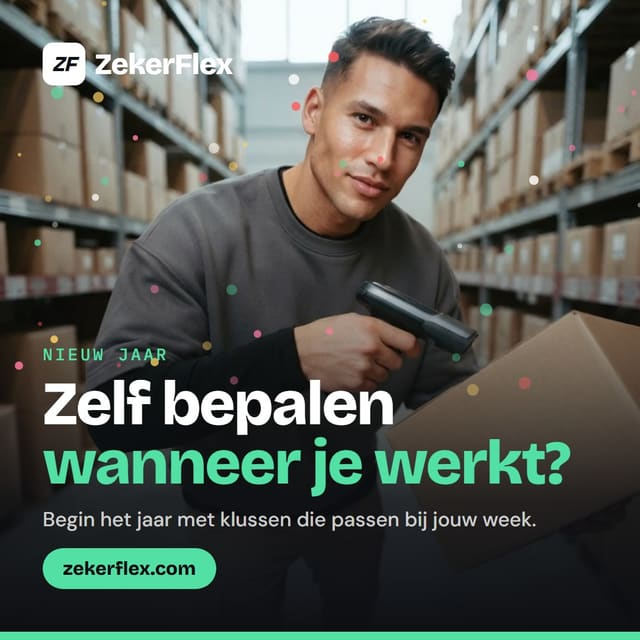
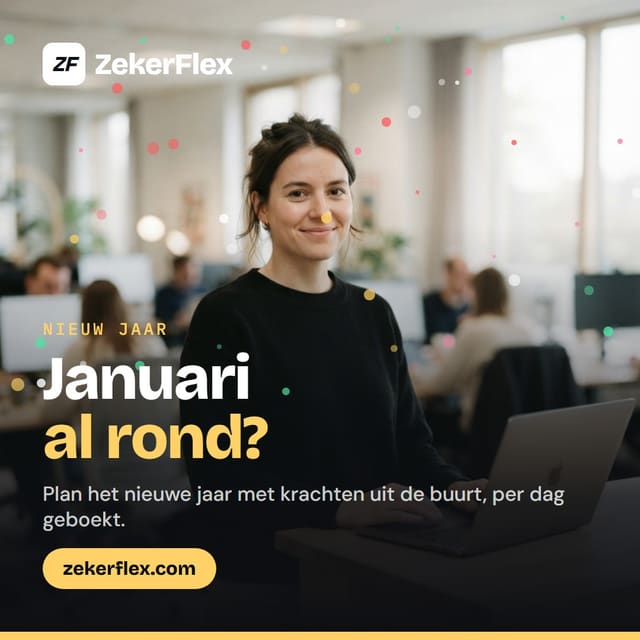
fix(seizoen): werker-app alleen een werkersbeeld, nieuwjaar apart voor bedrijf en werker
In de werker-app (/dashboard) geen bedrijvenpost: zonder werkersversie geen
kaart. Nieuwjaar heeft nu een bedrijvenbeeld (januari al rond?) en een
werkersbeeld (zelf bepalen wanneer je werkt?).

diff --git a/lib/seasons/foto.ts b/lib/seasons/foto.ts
@@ -6,6 +6,8 @@ import type { SeasonId, ThemeId } from "./calendar";
 // eigen foto's (dezelfde beelden als de social-mediaset van 17 nov 2026). De bestanden staan in
 // public/seizoen (640x640, licht), herkomst in public/seizoen/CREDITS.md. Puur: geen Date, geen
 // browser, zodat de test en de server hetzelfde zeggen.
+// Werker en bedrijf apart: de werker-app (/dashboard) toont alleen een werkersbeeld; is dat er niet,
+// dan geen kaart. Anders staat er reclame voor bedrijven in de app van de werker.
 // ---------------------------------------------------------------------------
 
 export interface SeizoenFoto {
@@ -16,12 +18,12 @@ export interface SeizoenFoto {
 
 interface Regel {
   alt: string;
-  /** eigen beeld voor de werker-app (/dashboard), als dat er is; anders hetzelfde beeld voor iedereen */
+  /** eigen beeld voor de werker-app (/dashboard); zonder dit beeld krijgt de werker-app geen kaart */
   werker?: { bestand: string; alt: string };
 }
 
 export const SEIZOEN_FOTOS: Readonly<Record<SeasonId, Regel>> = {
-  nieuwjaar: { alt: "Nieuw jaar: zelf bepalen wanneer je werkt?" },
+  nieuwjaar: { alt: "Nieuw jaar: januari al rond?", werker: { bestand: "nieuwjaar-werker", alt: "Nieuw jaar: zelf bepalen wanneer je werkt?" } },
   valentijn: { alt: "Valentijnsdag: restaurant vol geboekt?" },
   carnaval: { alt: "Carnaval: kroeg vol?" },
   pasen: { alt: "Pasen: paasbrunch vol geboekt?" },
@@ -34,10 +36,10 @@ export const SEIZOEN_FOTOS: Readonly<Record<SeasonId, Regel>> = {
 
 const isWerkerApp = (pathname: string) => pathname === "/dashboard" || pathname.startsWith("/dashboard/");
 
-/** Het beeld bij een feest, of null (een verjaardag heeft geen beeld). */
+/** Het beeld bij een feest, of null (een verjaardag heeft geen beeld; de werker-app zonder werkersbeeld ook niet). */
 export function seizoenFoto(theme: ThemeId, pathname: string): SeizoenFoto | null {
   if (theme === "verjaardag") return null;
   const regel = SEIZOEN_FOTOS[theme];
-  if (regel.werker && isWerkerApp(pathname)) return { src: `/seizoen/${regel.werker.bestand}.jpg`, alt: regel.werker.alt };
+  if (isWerkerApp(pathname)) return regel.werker ? { src: `/seizoen/${regel.werker.bestand}.jpg`, alt: regel.werker.alt } : null;
   return { src: `/seizoen/${theme}.jpg`, alt: regel.alt };
 }

diff --git a/tests/seizoen-foto.test.ts b/tests/seizoen-foto.test.ts
@@ -27,12 +27,20 @@ describe("seizoensfoto's", () => {
     }
   });
 
-  it("de werker-app krijgt de werkersversie, de rest het gewone beeld", () => {
+  it("de werker-app krijgt alleen een werkersversie (nooit een bedrijvenpost), de rest het gewone beeld", () => {
     expect(seizoenFoto("kerst", "/dashboard/klussen")?.src).toBe("/seizoen/kerst-werker.jpg");
     expect(seizoenFoto("kerst", "/dashboard")?.src).toBe("/seizoen/kerst-werker.jpg");
+    expect(seizoenFoto("nieuwjaar", "/dashboard")?.src).toBe("/seizoen/nieuwjaar-werker.jpg");
     expect(seizoenFoto("kerst", "/werkgever")?.src).toBe("/seizoen/kerst.jpg");
     expect(seizoenFoto("kerst", "/")?.src).toBe("/seizoen/kerst.jpg");
-    expect(seizoenFoto("sinterklaas", "/dashboard")?.src).toBe("/seizoen/sinterklaas.jpg");
+    expect(seizoenFoto("nieuwjaar", "/")?.src).toBe("/seizoen/nieuwjaar.jpg");
+    // geen werkersbeeld: dan geen kaart in de werker-app (werker en bedrijf apart)
+    for (const feest of ["sinterklaas", "carnaval", "valentijn", "pasen", "koningsdag", "halloween", "oudjaar"] as const) {
+      expect(seizoenFoto(feest, "/dashboard"), feest).toBeNull();
+      expect(seizoenFoto(feest, "/dashboard/profiel"), feest).toBeNull();
+    }
+    // /dashboards-achtige paden buiten de werker-app tellen niet als werker-app
+    expect(seizoenFoto("sinterklaas", "/dashboardje")?.src).toBe("/seizoen/sinterklaas.jpg");
     for (const regel of Object.values(SEIZOEN_FOTOS)) {
       if (regel.werker) expect(existsSync(join(MAP, `${regel.werker.bestand}.jpg`))).toBe(true);
     }

diff --git a/public/seizoen/CREDITS.md b/public/seizoen/CREDITS.md
@@ -7,7 +7,8 @@ social-mediaset "seizoenen en momenten", gemaakt in de vaste reclamestijl uit de
 
 | Bestand | Kop op het beeld |
 | --- | --- |
-| nieuwjaar.jpg | Nieuw jaar: zelf bepalen wanneer je werkt? |
+| nieuwjaar.jpg | Nieuw jaar: januari al rond? |
+| nieuwjaar-werker.jpg | Nieuw jaar: zelf bepalen wanneer je werkt? (werker-app) |
 | valentijn.jpg | Valentijnsdag: restaurant vol geboekt? |
 | carnaval.jpg | Carnaval: alaaf, kroeg vol? |
 | pasen.jpg | Pasen: paasbrunch vol geboekt? |
